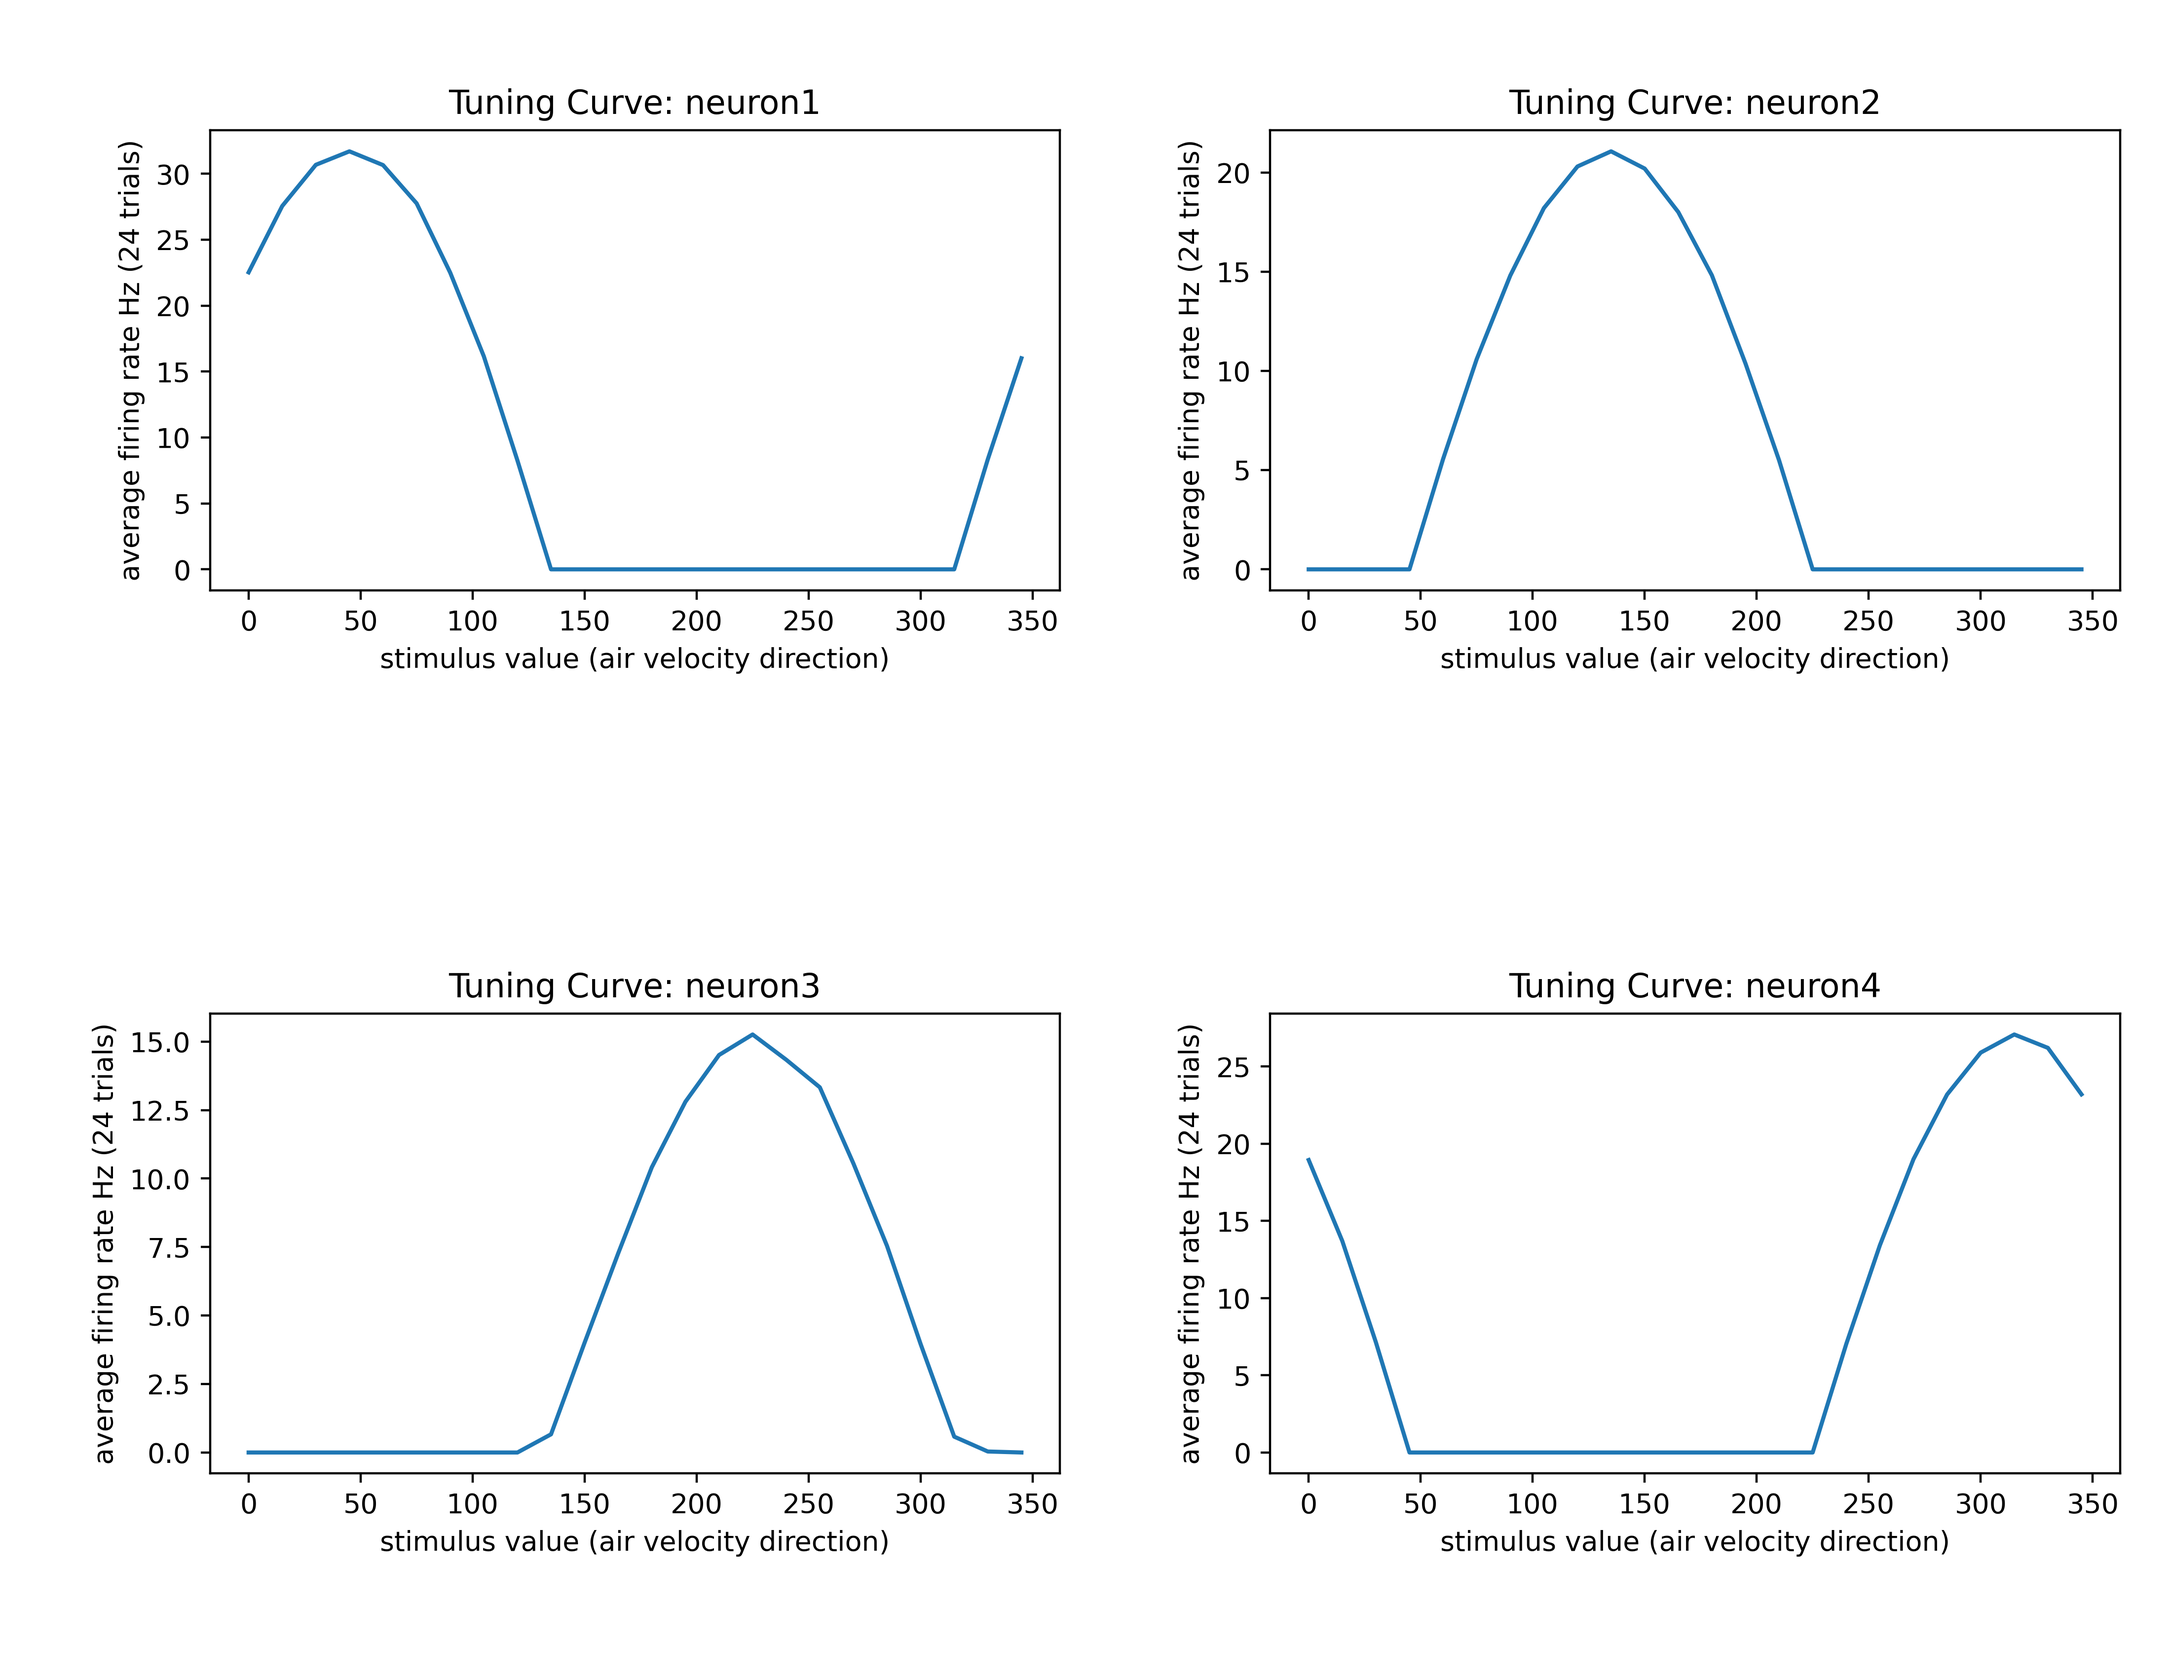
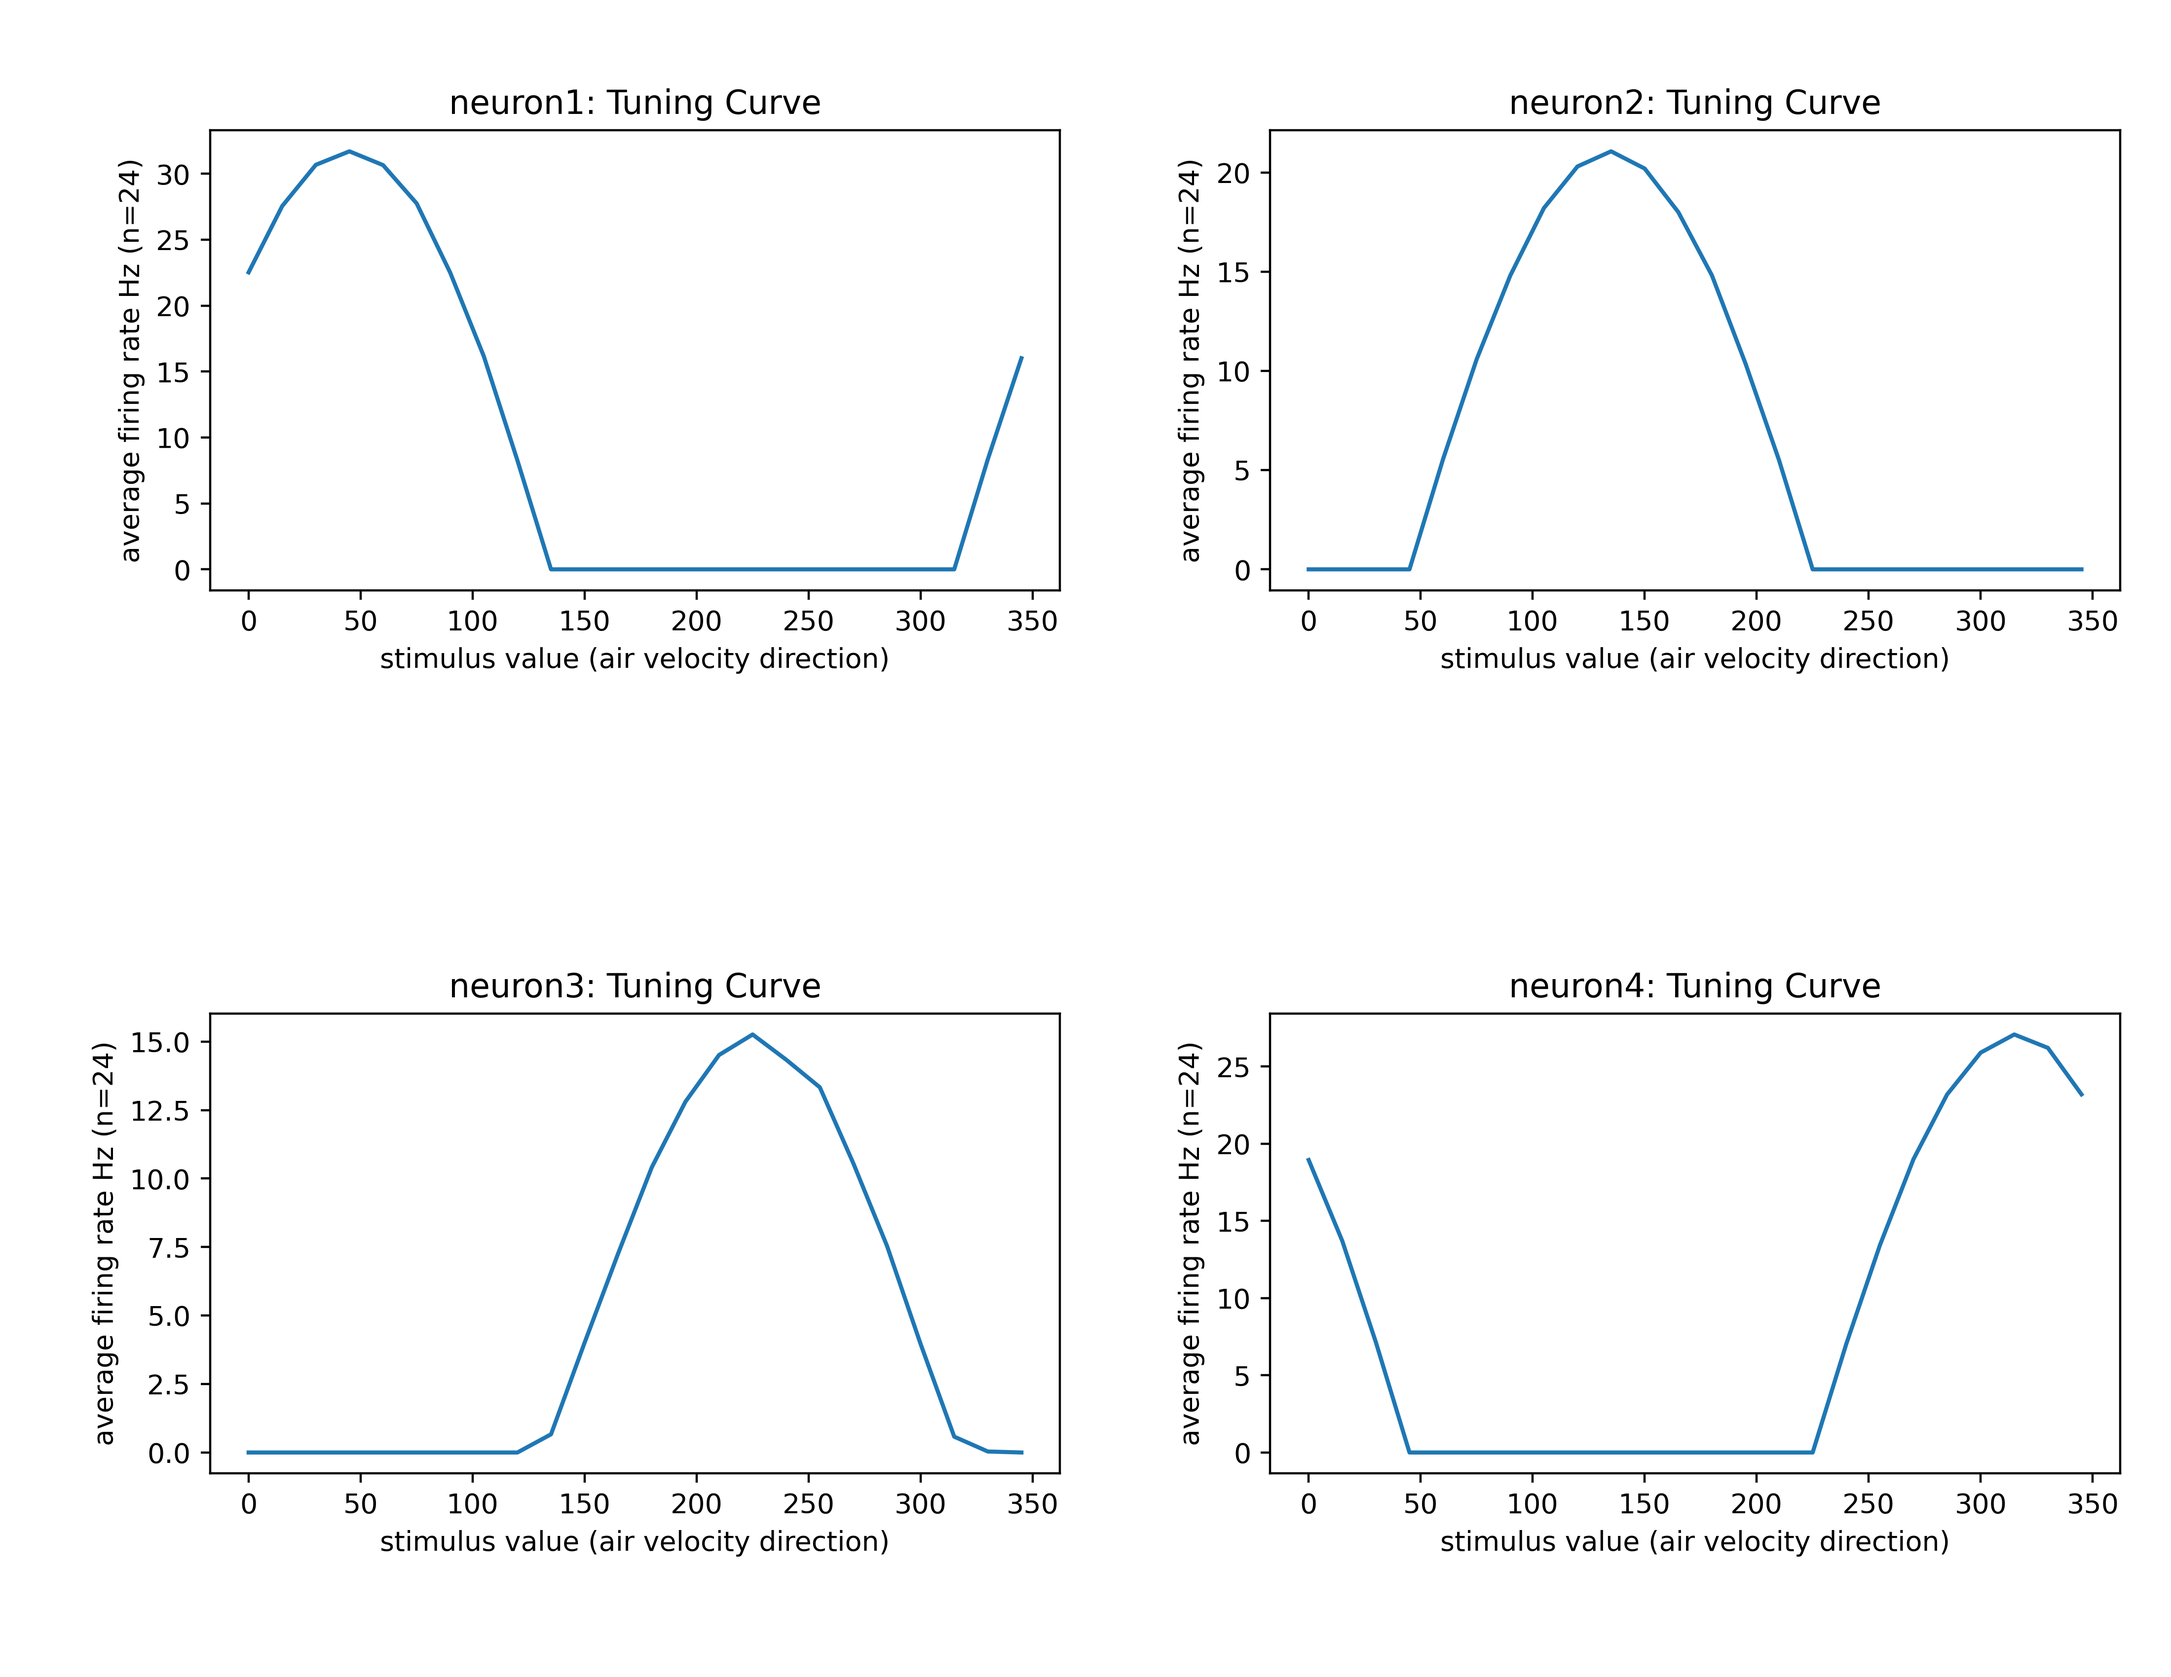
Finish most of quiz4.

diff --git a/week4/quiz/tuning.py b/week4/quiz/tuning.py
@@ -4,7 +4,7 @@ import math
 import pickle
 from matplotlib import pyplot as plt
 
-def q7():
+def q7_8():
   with open('tuning_3.4.pkl', 'rb') as f:
     data = pickle.load(f)
   print('tuning data is a dict with keys:')
@@ -23,25 +23,60 @@ def q7():
     nData = data[key]
 
     tuningData[key] = []
-    for stimIndex in range(nData.shape[1]): # 24 stimuli values
+    for stimIndex in range(nData.shape[1]): # 24 unique stimuli values
+      """"
+      each column corresponds to a given stimulus and has 100 entries
+      (each entry being the firing rate over a single 10 sec trial of the given stimulus)
+      """
       # compute average firing rate across all trials with this particular stimulus
-      avgResponse = np.mean(nData[:, stimIndex])
-      tuningData[key].append(avgResponse)
+      avgRes = np.mean(nData[:, stimIndex])
+      tuningData[key].append(avgRes)
 
-    # plot tuning curve for this neuron
+    ## plot tuning curve for this neuron
     #   we want to see how its average firing rate (response) varies based on the stimuli
     splot = axis[plotMap[n-1]] # AxesSubPlot
-    #plt.clf()
     splot.plot(data['stim'], tuningData[key])
     #splot.legend()
     splot.set_xlabel('stimulus value (air velocity direction)')
-    splot.set_ylabel('average firing rate Hz ({} trials)'.format(len(data['stim'])))
-    splot.set_title('Tuning Curve: {}'.format(key))
+    splot.set_ylabel('average firing rate Hz (n={})'.format(len(data['stim'])))
+    splot.set_title('{}: Tuning Curve'.format(key))
 
   fig.tight_layout(h_pad=4)
   plt.gcf().set_size_inches(11, 8.5)
-  plt.savefig("tuning_curves.png".format(key), dpi=400)
+  plt.savefig("tuning_curves.png", dpi=400)
   #plt.show()
+  print("wrote tuning_curves.png to disk!")
 
 
-q7()
+  # now lets investigate the poisson(ness) of each neuron
+  plt.clf()
+  fig, axis = plt.subplots(2, 2)
+  pData = {} # poisson (or not) data
+  for n in range(1, 5):
+    key = f"neuron{n}"
+    nData = data[key]
+
+    # compute list of variances (one for each stimulus)
+    #   (multiply by 10 to convert trial firing rate to spike count)
+    variance = np.var(nData * 10, axis=0)
+    avgSpikes = np.mean(nData * 10, axis=0)
+    pData[key] = {'var': variance, 'avg': avgSpikes}
+
+    ## plot variance vs avg spikes for each neuron to evalute poisson(ness)
+    splot = axis[plotMap[n-1]] # AxesSubPlot
+    splot.scatter(avgSpikes, variance)
+    #splot.legend()
+    splot.set_xlabel('avg. spike count')
+    splot.set_ylabel('variance of spike count')
+    splot.set_title('{}: Spike count average vs variance'.format(key))
+
+  fig.tight_layout(h_pad=4)
+  plt.gcf().set_size_inches(11, 8.5)
+  fName = "poisson.png"
+  plt.savefig(fName, dpi=400)
+  plt.title('Poisson(ness) Evaluation of Neurons')
+  print(f"wrote {fName} to disk!")
+
+
+if __name__ == "__main__":
+  q7_8()

diff --git a/week4/quiz/questions1_2.py b/week4/quiz/questions1_2.py
@@ -2,21 +2,29 @@
 import math
 
 def q1():
+  """
+  note: I added this full problem to my notes
+  https://beta.engbert.me/p/sci/cns/coursera.md
+  """
+  print("\n------q1---------")
   res = -0.1 * math.log(0.1, 2) + (-0.9 * math.log(0.9, 2))
   print(f"q1: {res:0.4f}\n")
+  return res
 
-# TODO: doesn't look like this answer is right:
-def q2():
-  # total entropy of responses:
-  totalEntropyR = -0.055*math.log(0.055, 2) - 0.845*math.log(0.845, 2)
+def q2(a1):
+  """computing Mutal information. see equation for MI(S,R) in notes"""
+  print("\n------q2---------")
+  # total entropy of responses (comes from question1)
+  totalEntropyR = a1
+
   # average noise entropy:
-  avgEntropyN = -0.1 * (0.5*math.log(0.5, 2)) * (0.5*math.log(0.5, 2)) + \
-    -0.9 * (1/18 * math.log(1/18, 2)) * (17/18 * math.log(17/18, 2))
+  avgEntropyN = -0.1 * (0.5*math.log(0.5, 2) + 0.5*math.log(0.5, 2)) + \
+    -0.9 * (1/18*math.log(1/18, 2) + 17/18*math.log(17/18, 2))
 
   print(f"totalEntropyR = {totalEntropyR:0.4f}")
   print(f"avgEntropyN = {avgEntropyN:0.4f}")
   res = totalEntropyR - avgEntropyN
   print(f"q2: {res:0.4f}\n")
 
-q1()
-q2()
+a1 = q1()
+q2(a1)
